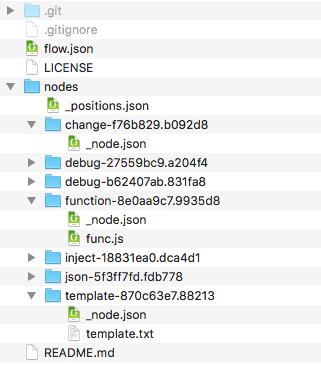
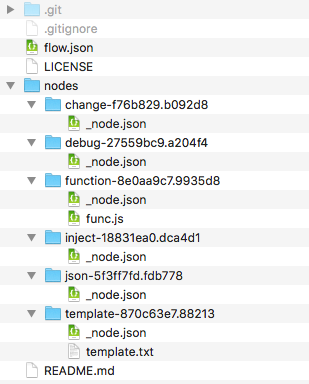
update

Changed region(s): [[0.0, 0.0, 0.7282, 0.9945], [0.0874, 0.6027, 0.1165, 0.6329]]

diff --git a/flowjsondiv.js b/flowjsondiv.js
@@ -31,30 +31,11 @@ var divisioner = function (json, outputname, outputdir) {
             if (specialKeys.hasOwnProperty(key) ) {
                 arrObj.push({ id: this.id, type: this.type, key: key, value: this[key], ext: specialKeys[key] });
                 this[key] = "";
-            } else if (key === "x" || key === "y") {
-                this[key] = "";
             }
         }, noderedNode);
         
         arrObj.push({ id: noderedNode.id, type: noderedNode.type, key: "_node", value: JSON.stringify(noderedNode, null, "  "), ext: ".json" });
     });
-    
-    //console.log(JSON.stringify(posijson));
-    // position(y) sort 
-    posijson.sort(function (a, b) {
-        if (a.y < b.y) return -1;
-        if (a.y > b.y) return 1;
-        return 0;
-    });
-    //console.log(JSON.stringify(posijson));
-    var posijsonText = "[";
-    var arrspliter = "";
-    posijson.forEach(function (item) { 
-        posijsonText += arrspliter + "\n  " + JSON.stringify(item);
-        arrspliter = ",";
-    });
-    posijsonText += "\n]"
-    //console.log(posijsonText);
 
     // save
     mkdirp(outputdir + "/nodes", function (err) {
@@ -66,16 +47,8 @@ var divisioner = function (json, outputname, outputdir) {
                     console.log(err);
                 }
             });
-            fs.writeFile(outputdir + "/nodes/_positions.json", posijsonText, function (err) {
-                if (err) {
-                    console.log(err);
-                }
-            });
             arrObj.forEach(function (obj) {
                 var filedir = outputdir + "/nodes/" + obj.type + "-" + obj.id;
-                //if (obj.key === "x" || obj.key === "y") {
-                //    filedir = outputdir + "/nodes/_position/" + obj.type + "-" + obj.id;
-                //}
                 mkdirp(filedir, function (err) {
                     fs.writeFile(filedir + "/" + obj.key + obj.ext, obj.value, function (err) {
                         if (err) {
